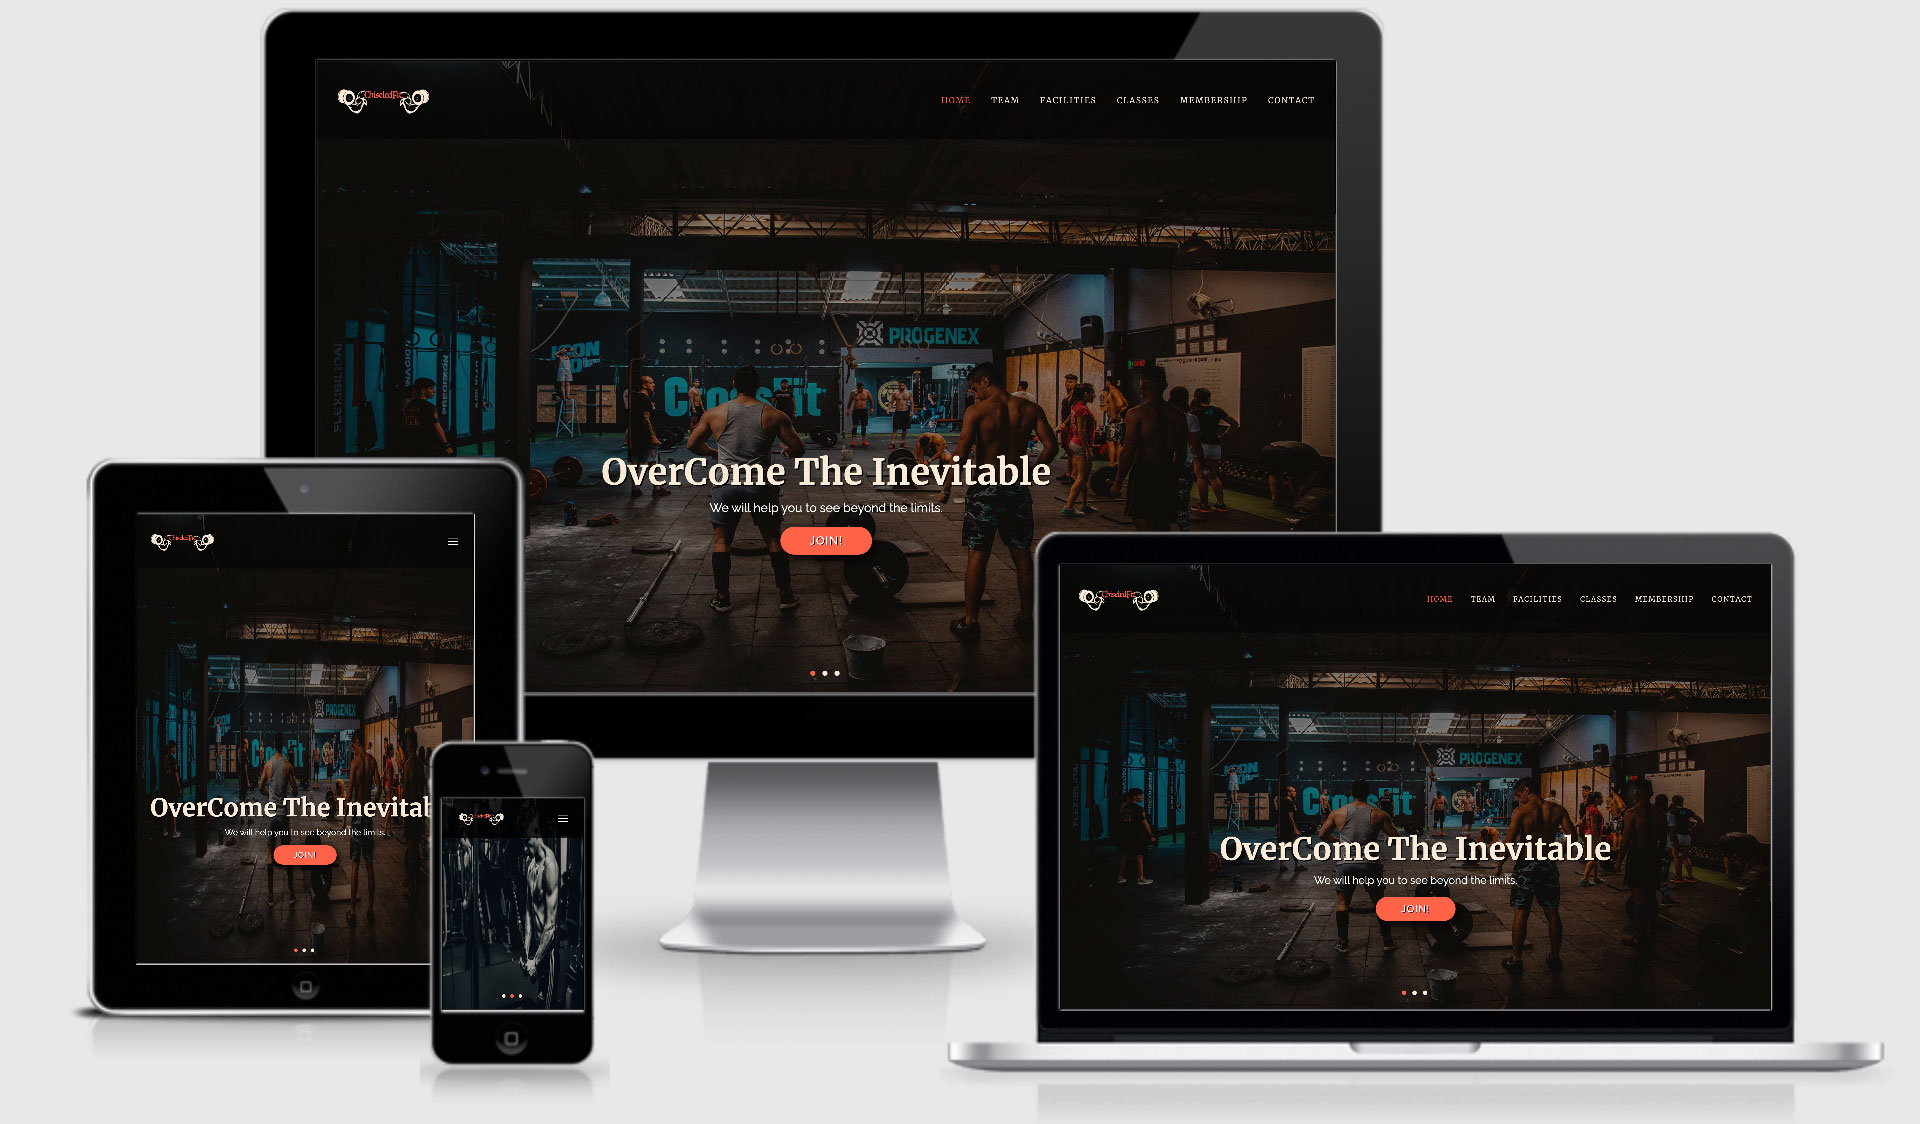
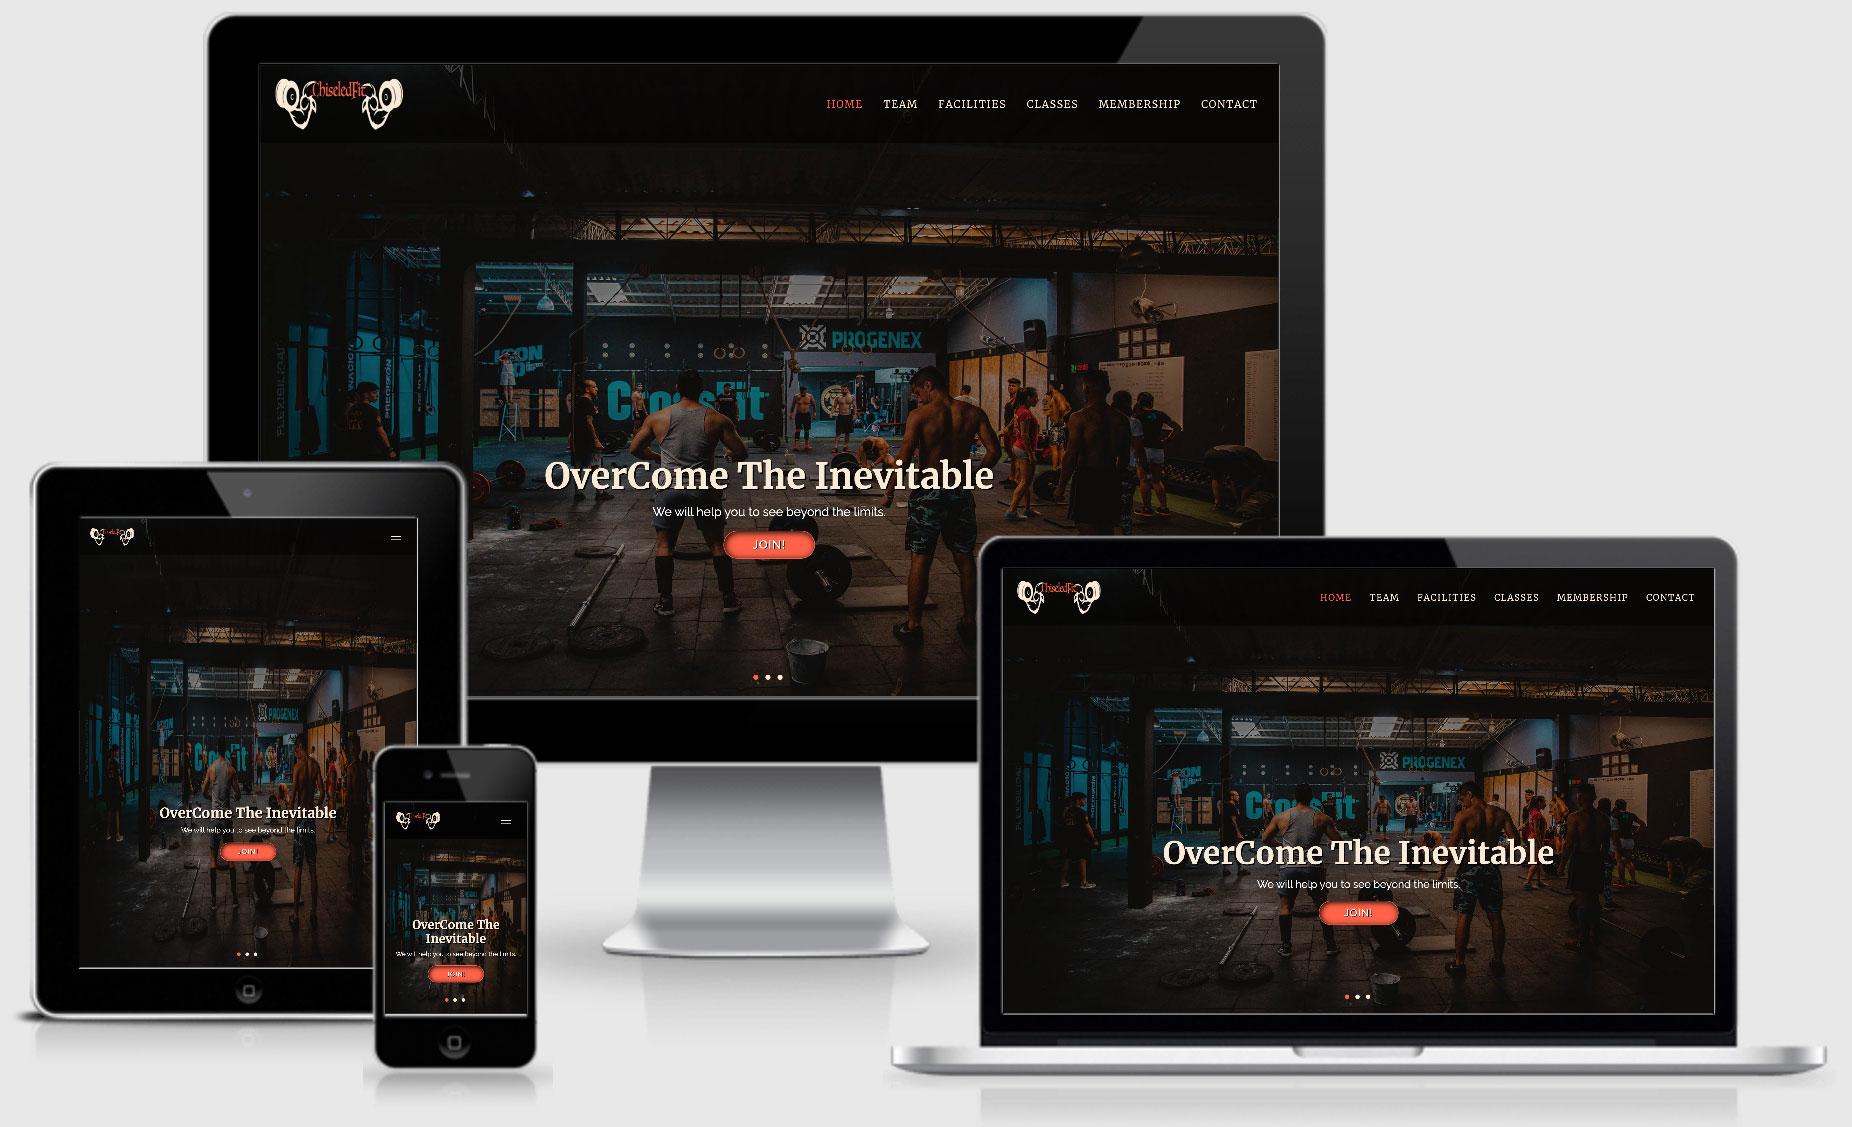
New Mockup screenshot added and few typing errors corrected

Changed region(s): [[0.0, 0.0, 0.9849, 0.9653]]

diff --git a/README.md b/README.md
@@ -121,7 +121,7 @@ In this Plane of the UX Process, I have designed this website based on the strat
    *    What Content is provided on this Website?
    *    What functionalities are offered on this Website for a user to achieve his/her website visit?
    *    Does the Website has ample information for a user?
-   *     Does the Website has specific features and elements to compete with others in the same business?
+   *    Does the Website has specific features and elements to compete with others in the same business?
 
 All the above questions have been answered in the development of this Website. The website provides all the specific features and functions for a user to fully achieve his/her goal.
 
@@ -342,6 +342,7 @@ Different technologies have been used in this project as stated below.
     
 #### Issues Found
    *    There was an issue found after deploying the project, the images weren't showing up so I changed the file paths and it corrected that issue.
+   *    The li (timing) in the footer would turn into telephone link on iPhones and iPads. The issue was resolved by adding a Unicode Zero Width Space character (&#8203) in the middle of the value. 
 
 ###     **Deployment**
 
@@ -375,6 +376,7 @@ The credits go to the following.
 
    *    [Unsplash](https://unsplash.com/)
    *    [Pexels](https://www.pexels.com/)
+   *    [Freepik](https://www.freepik.com/)
     
 #### Coding Tips & Tricks
 
